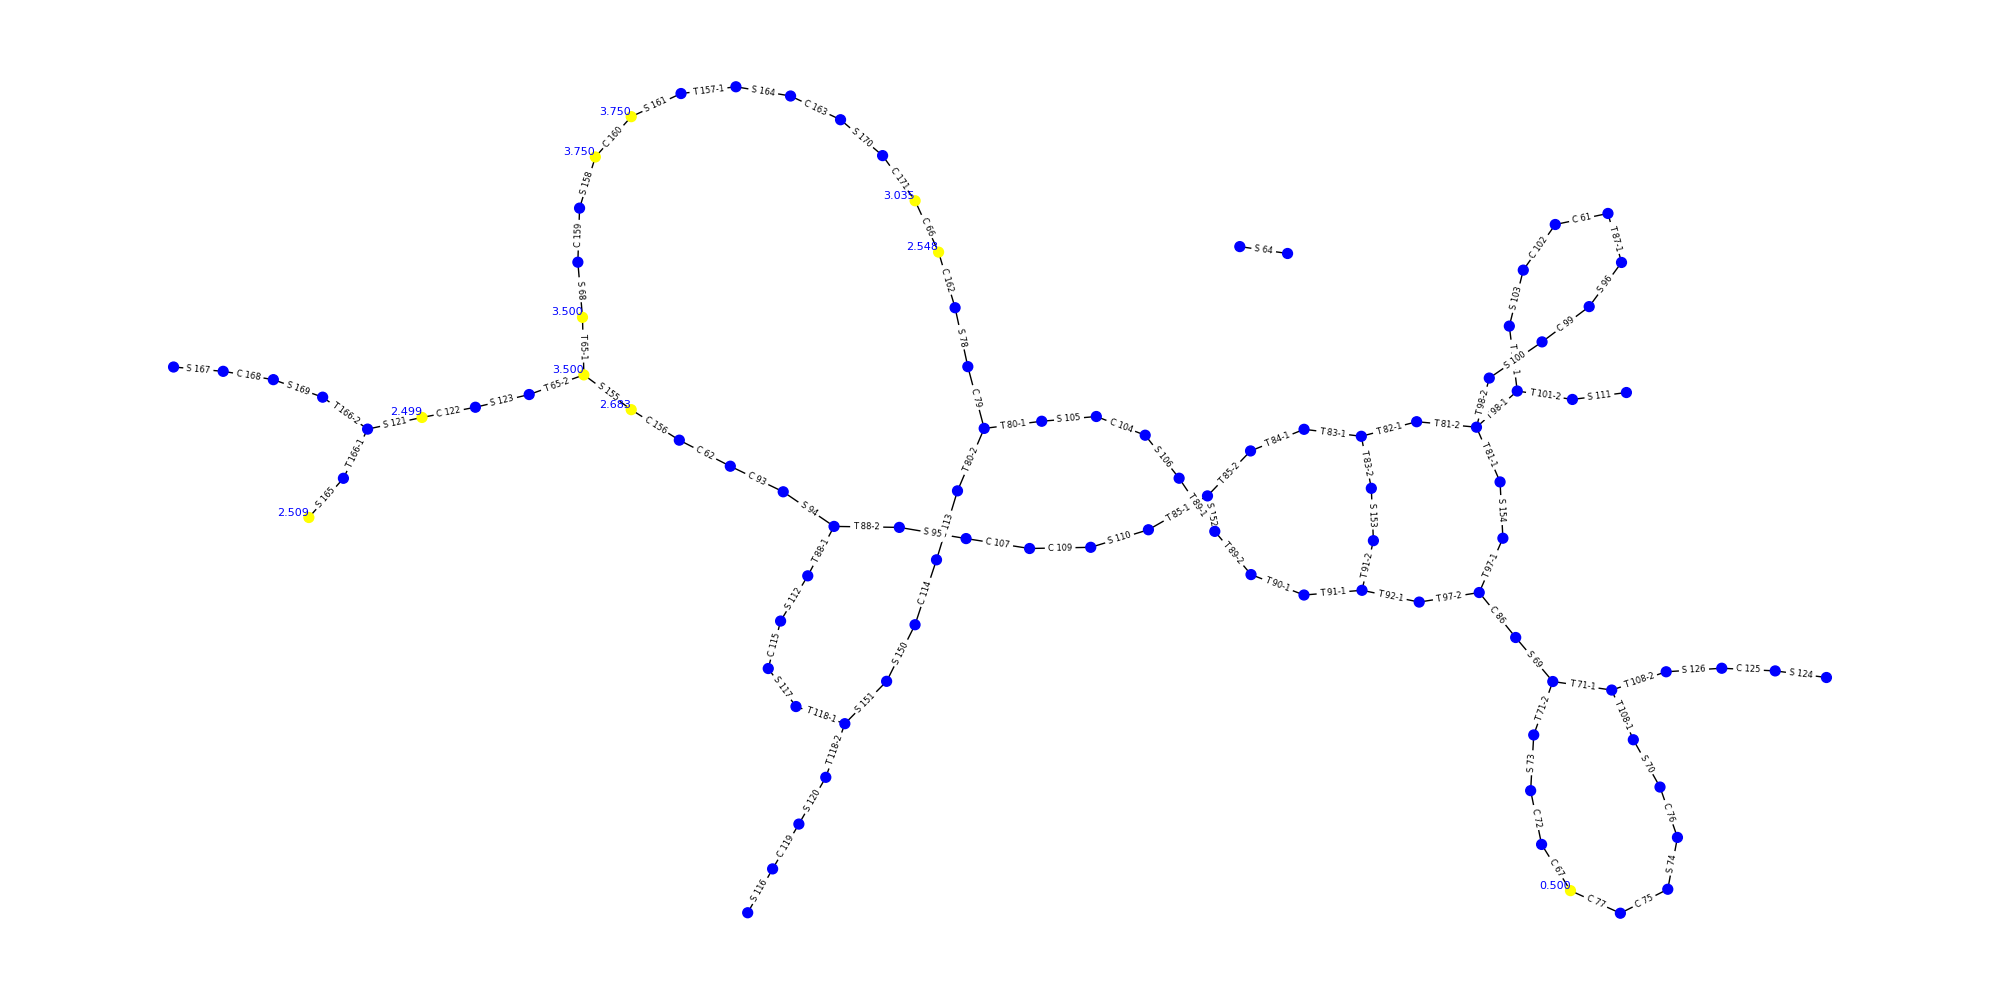
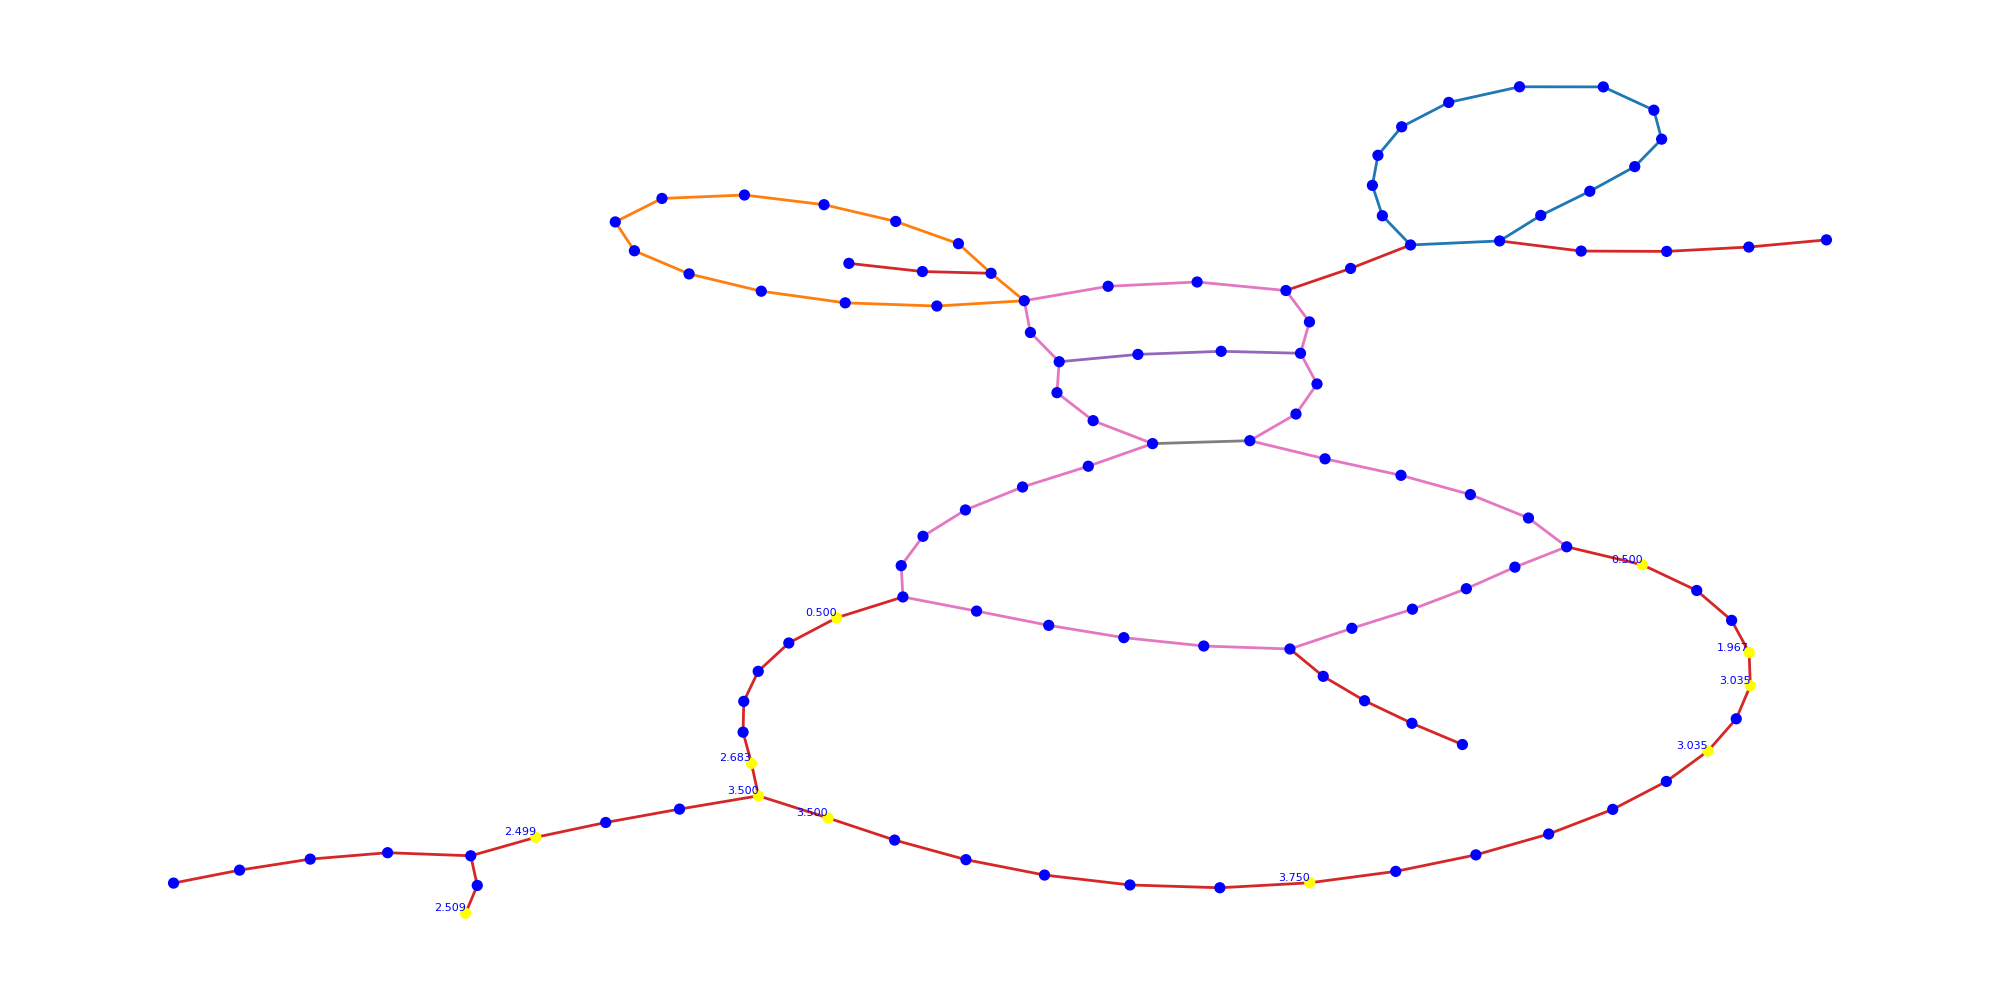
docs & latest experiments

diff --git a/elevations.py b/elevations.py
@@ -2,9 +2,11 @@
 '''Read connected track defined and computed elevations out of the xtrkcad file and save into a csv'''
 import logging
 from os import path
+import pprint
 import re
 
 import matplotlib.pyplot as plt
+import matplotlib.colors as mcolors
 import networkx as nx
 import numpy as np
 import pandas as pd
@@ -84,24 +86,28 @@ def step_len_div(part) -> list:
     divs+=[path['divergence']]
   return lens,divs
 
-def parts_to_graph(parts):
+def parts_to_graph(parts_list):
   '''convert to graph so we can find paths between defined elevations and thus compute slopes and elevations where they are not defined
   while we are at it, also accumulate the positions of the nodes.
   returns the graph and a dictionary of node positions
   '''
+  parts={}
+  for part in parts_list:
+    parts[part.id]=part
   G=nx.Graph()
   pos={}
-  unconnected=0 # replace unconnected endpoint reference numbers with negatives
-  for part in parts:
+  unconnected=0 # replace unconnected endpoint references with sequential numbers
+  for _,part in parts.items():
     match part.part_type:
       case 'STRAIGHT' | 'CURVE':
         connects_to=[a[0] for a in part.end_points]
         nodes={}# node_id & heights
-        for ix,adjacent_part in enumerate(connects_to):
-          if adjacent_part is None:
-            unconnected+=-1
-            adjacent_part=unconnected
-          node_id=fmt_node_id(part.id,adjacent_part)  
+        for ix,adjacent_part_id in enumerate(connects_to):
+          if adjacent_part_id is None:
+            unconnected+=1
+            node_id=fmt_node_id(part,end_ref=unconnected)
+          else:
+            node_id=fmt_node_id(part,connects_to=parts[adjacent_part_id])  
           nodes[node_id]=part.end_points[ix][3]# the height or zero if not yet known
           pos[node_id]=np.array(part.end_points[ix][1:3]) # the x and y values. Gets both ends due to loop
           # if its connected, this will happen twice
@@ -126,7 +132,7 @@ def parts_to_graph(parts):
         sel=(ep_df[['x','y']]==start_point).all(axis=1)
         assert 1==sel.sum()
         node_start,angle_start=ep_df.loc[sel,['connects_to','angle']].squeeze().tolist()
-        from_node_id=fmt_node_id(part.id,node_start)
+        from_node_id=fmt_node_id(parts[part.id],connects_to=parts[node_start])
         xyz=np.array(ep_df.loc[sel,['x','y','z']].squeeze())
         from_height=xyz[2]
         pos[from_node_id]=xyz[0:2]
@@ -137,8 +143,8 @@ def parts_to_graph(parts):
           angle_end=row['divergence']+(180+angle_start)%360 # the other end is going the opposite direction
           sel=np.isclose(ep_df['angle'],angle_end,.001)
           assert 1==sum(sel)
-          to=sorted([part.id,ep_df.loc[sel,'connects_to'].squeeze()])
-          to_node_id=fmt_node_id(*to)
+          to=ep_df.loc[sel,'connects_to'].squeeze()
+          to_node_id=fmt_node_id(part,parts[to])
           xyz=np.array(ep_df.loc[sel,['x','y','z']].squeeze())
           pos[to_node_id]=xyz[0:2]
           part_path=str(part)+'-%d'%(ix+1)
@@ -151,7 +157,7 @@ def parts_to_graph(parts):
   logging.info('Converted to graph')
   return G,pos      
 
-def draw_graph(G,path,physical_pos=None):
+def draw_graph(G,path,physical_pos=None,edge_color=None):
   '''Draw the graph and store at path
   If physical_pos is provided, it is used for the node locations'''
   plt.figure(figsize=(20,10),)
@@ -163,7 +169,7 @@ def draw_graph(G,path,physical_pos=None):
     h=G.nodes[node]['height']
     if h>0:
       color_map.append('yellow')
-      height_labels[node]=('%.3f'%h)
+      height_labels[node]='%.3f'%h
     else:
       color_map.append('blue')
   edge_labels = dict([((n1, n2), d['part_id']) for n1, n2, d in G.edges(data=True)]) # +'\n%.2f'%d['length']
@@ -172,9 +178,9 @@ def draw_graph(G,path,physical_pos=None):
   else:
     #pos=nx.spring_layout(G,weight='weight')
     pos=nx.nx_pydot.graphviz_layout(G,prog='neato')
-  nx.draw_networkx(G, pos,node_color=color_map,with_labels=False,node_size=50)
+  nx.draw_networkx(G, pos,node_color=color_map,with_labels=False,node_size=50,edge_color=edge_color,width=2)
   nx.draw_networkx_labels(G,pos,height_labels,horizontalalignment='right',verticalalignment='bottom',font_size=8,font_color='b')
-  nx.draw_networkx_edge_labels(G,pos,edge_labels=edge_labels,font_size=6)
+  #nx.draw_networkx_edge_labels(G,pos,edge_labels=edge_labels,font_size=6)
   plt.savefig(path)
   logging.info('Displayed graph in file %s'%(path))
 
@@ -188,8 +194,25 @@ def main():
   parts=read_input(in_file=in_file)
   logging.info (f'input file has {len(parts)} parts')
   G,pos=parts_to_graph(parts)
-  draw_graph(G,physcial_file,pos)
-  draw_graph(G,logical_file)
+  chains=list(nx.chain_decomposition(G))
+  edge_list=list(G.edges())
+  colors=list(set(mcolors.TABLEAU_COLORS.keys())-set('tab:red'))
+  edge_color=['tab:red']*len(edge_list)
+  cx=0
+  for chain in chains:
+    for edge in chain:
+      if edge in edge_list:
+        ix=edge_list.index(edge)
+      else:
+        edge=(edge[1],edge[0])
+        if edge in edge_list:
+          ix=edge_list.index(edge)
+        else:
+          assert False, 'Cannot locate edge or the reverse of edge'
+      edge_color[ix]=colors[cx%len(colors)]
+    cx+=1
+  draw_graph(G,physcial_file,pos,edge_color)
+  draw_graph(G,logical_file,edge_color=edge_color)
 
 
 if __name__=='__main__':

diff --git a/part_class.py b/part_class.py
@@ -9,27 +9,39 @@ def decorate(df) -> pd.DataFrame:
   for fld in ['part_index','connects_to']:
     df[fld]='T' + df[fld].astype(str)
   return df
-def fmt_node_id(a,b):
+def fmt_node_id(part_a,connects_to=None,end_ref=None):
   '''create string node-id 
-  argument: two integers, which are the part IDs that are connected
-    If less than zero it indicates that it is not connected. 
+  argument: 
+    The part object that is connecting and either 
+    connects_to: another part object or
+    end_ref: a sequential number to distinguish all between the items that are not connected 
   returns: a string with the lower valid part number 1st followed by a hyphen and the higher part number,
     unless there is a negative, in which case the unconnected item comes 2nd
-    Decorators T (connected) and E (ends) are used to make them node name more readable.
+    Decorators are used to make them node name more readable:
+      C curve
+      E an unconnected node (ends)
+      S straight
+      T turnout
   examples:
-    T86-T97 - The place where parts 86 and 97 connect.
-    T101-E5 - A siding that ends
-    E9-E6 - a loose piece of track
-    T86-T97a - TODO distinguish when pathologically two tracks connect to each other
+    S95-T99 - The place where parts straight 86 and turnout 97 connect.
+    C101-E5 - A curve that ends
+  
+  assumes that two tracks never connect to each other twice
   '''
-  ab=np.asarray([a,b])
-  match sum(np.sign(ab)):
-    case 2:
-      r='T%d-T%d'%(min(ab),max(ab))
-    case 0:
-      r='T%d-E%d'%(ab.max(),abs(ab.min()))
-    case -2:
-      r='E%d-E%d'%(abs(ab.min()),abs(ab.max()))
+  assert (connects_to is None) != (end_ref is None),'Exactly one of connects_to and end_ref should be provided'
+  a=str(part_a)
+  decorators=[a[0]]
+  ids=[int(a[1:])]
+  if connects_to is not None:
+    b=str(connects_to)
+    decorators+=[b[0]]
+    ids+=[int(b[1:])]
+    a=sorted(list(zip(ids,decorators)))
+  else:
+    decorators+=['E']
+    ids+=[end_ref]
+    a=list(zip(ids,decorators))
+  r='-'.join([t+str(i)for i,t in a])
   return r 
 def fmt_point(point)->str:
   '''format pairs as points'''
@@ -80,7 +92,7 @@ class Part:
   
   def __str__(self):
     '''return code + part number where code S=straight, C=curve, T=Turnout'''
-    return '%s %d'%(self.part_type[0:1],self.id)  
+    return '%s%d'%(self.part_type[0:1],self.id)  
 
   def __repr__(self):
     str='%s %d'%(self.part_type,self.id)

diff --git a/docs/index.md b/docs/index.md
@@ -1,0 +1,5 @@
+# Experiments with model railroad network graphs
+
+![CAD (xtrkcad) source](./xtrkcad_source.png)
+![Logical layout](./logical_layout.png)
+![Physical layout](./physical_layout.png)
